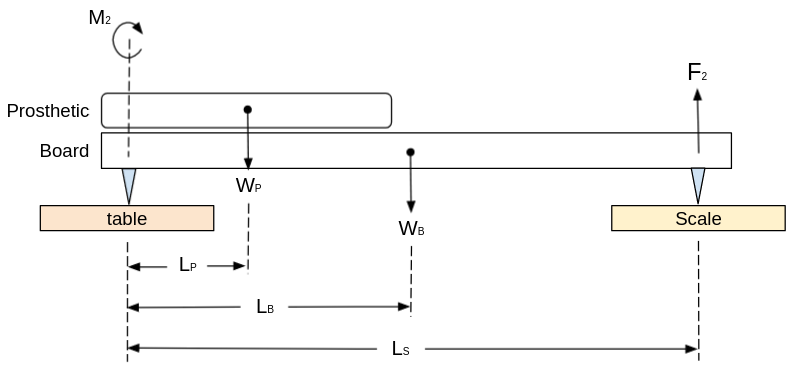
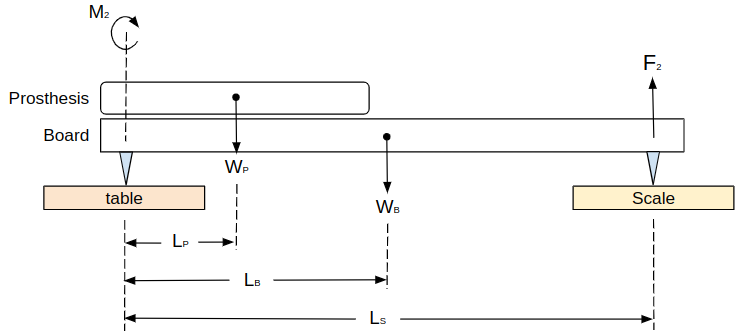
fix typos

Changed region(s): [[0.0, 0.0, 0.9933, 0.9851], [0.8381, 0.1493, 0.9001, 0.209]]

diff --git a/_site/motorized_prosthetic_arm/index.html b/_site/motorized_prosthetic_arm/index.html
@@ -132,10 +132,10 @@
                     <br>
 
                     <h4>Data collection</h4>
-                    <p>In the data collection part of the project, I focused mainly on measuring prosthetics characteristics and collecting body-arm motion data.</p>
+                    <p>In the data collection part of the project, I focused mainly on measuring prostheses characteristics and collecting body-arm motion data.</p>
                     <br>
 
-                    <h5>Prosthetics Measurements</h5>
+                    <h5>Prostheses Measurements</h5>
                     <p>To get the size and mass of an average prosthesis, I measured more than 20 different prosthetic arms. To find the center of mass (COM) location,
                     I used a center-of-mass estimation system$^{[1]}$. The system consisted of a wooden board with nails on both sides and a digital scale.
                     One side of the board was located on the scale, and the other side was located on a leveled table.</p>
@@ -296,7 +296,7 @@
                     <h3>Future Work</h3>
                     <p>
                     <ol>
-                        <li>Test the system on patients with above-elbow amputees.</li>
+                        <li>Test the system on patients with above-elbow amputation.</li>
                         <li>Replace the ODrive with a smaller PCB, that will be installed in the elbow module. The PCB will contain
                             a microprocessor, motor driver, current sensor, etc., to replace the ODrive's functionality.<br>
                             A preliminary design of such PCB can be found <a href="https://github.com/YaelBenShalom/Motorized-Prosthetic-Arm/tree/master/board_design/main_pcb" target="_blank"

diff --git a/_includes/motorized_prosthetic_arm.html b/_includes/motorized_prosthetic_arm.html
@@ -50,10 +50,10 @@
                     <br>
 
                     <h4>Data collection</h4>
-                    <p>In the data collection part of the project, I focused mainly on measuring prosthetics characteristics and collecting body-arm motion data.</p>
+                    <p>In the data collection part of the project, I focused mainly on measuring prostheses characteristics and collecting body-arm motion data.</p>
                     <br>
 
-                    <h5>Prosthetics Measurements</h5>
+                    <h5>Prostheses Measurements</h5>
                     <p>To get the size and mass of an average prosthesis, I measured more than 20 different prosthetic arms. To find the center of mass (COM) location,
                     I used a center-of-mass estimation system$^{[1]}$. The system consisted of a wooden board with nails on both sides and a digital scale.
                     One side of the board was located on the scale, and the other side was located on a leveled table.</p>
